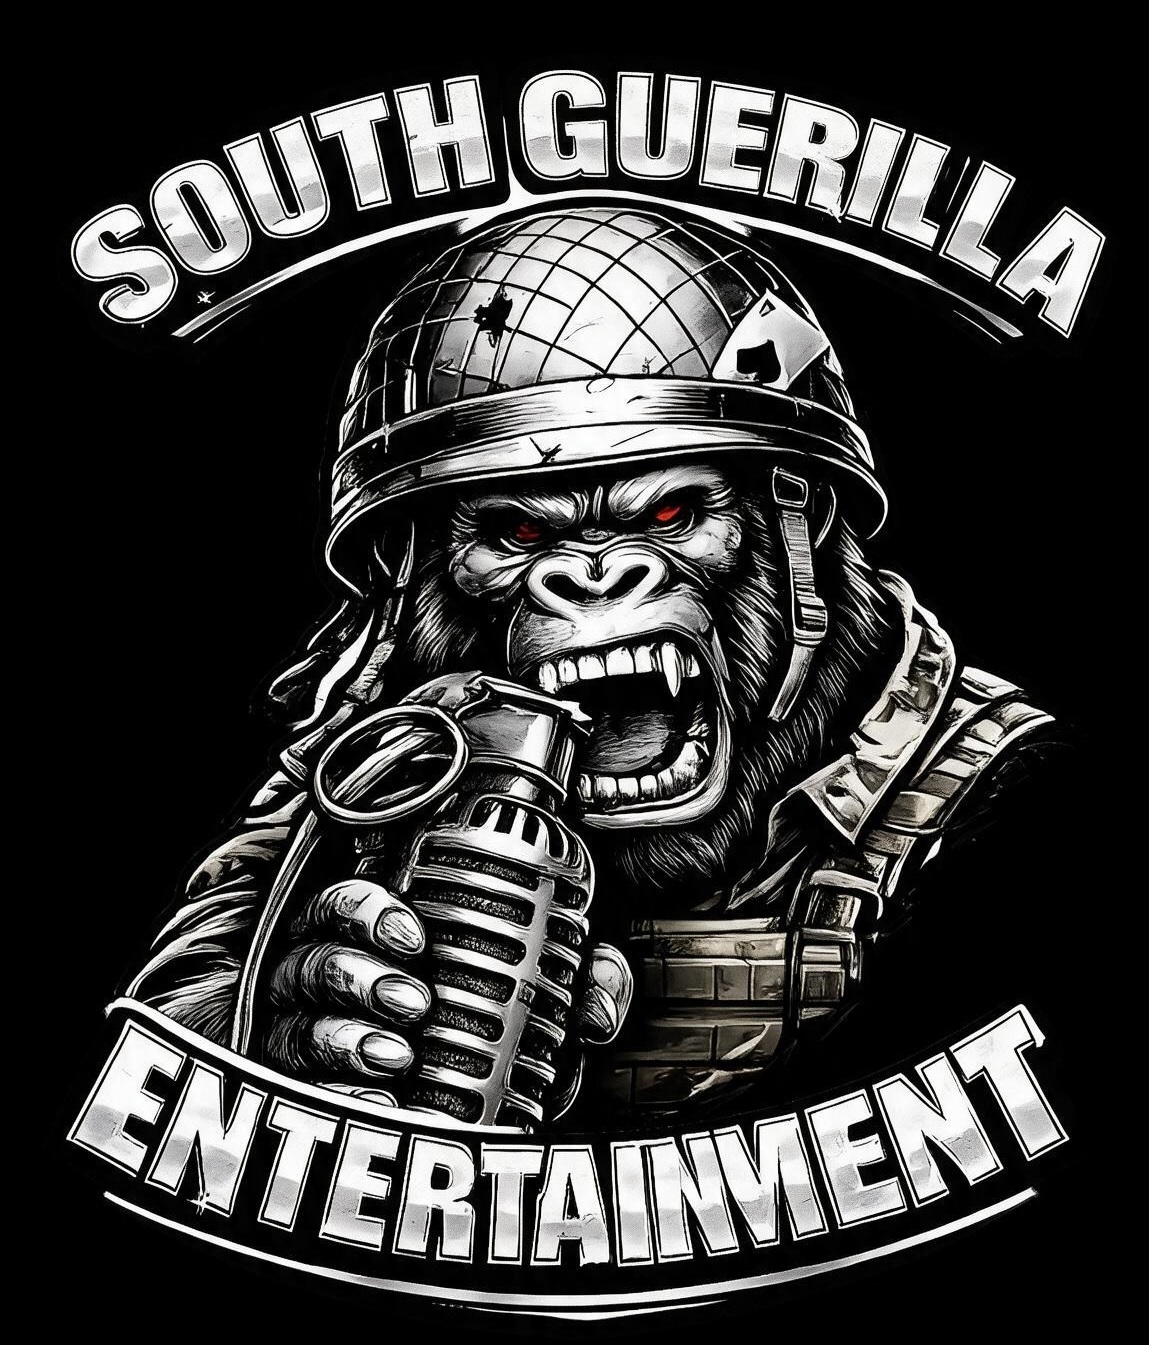
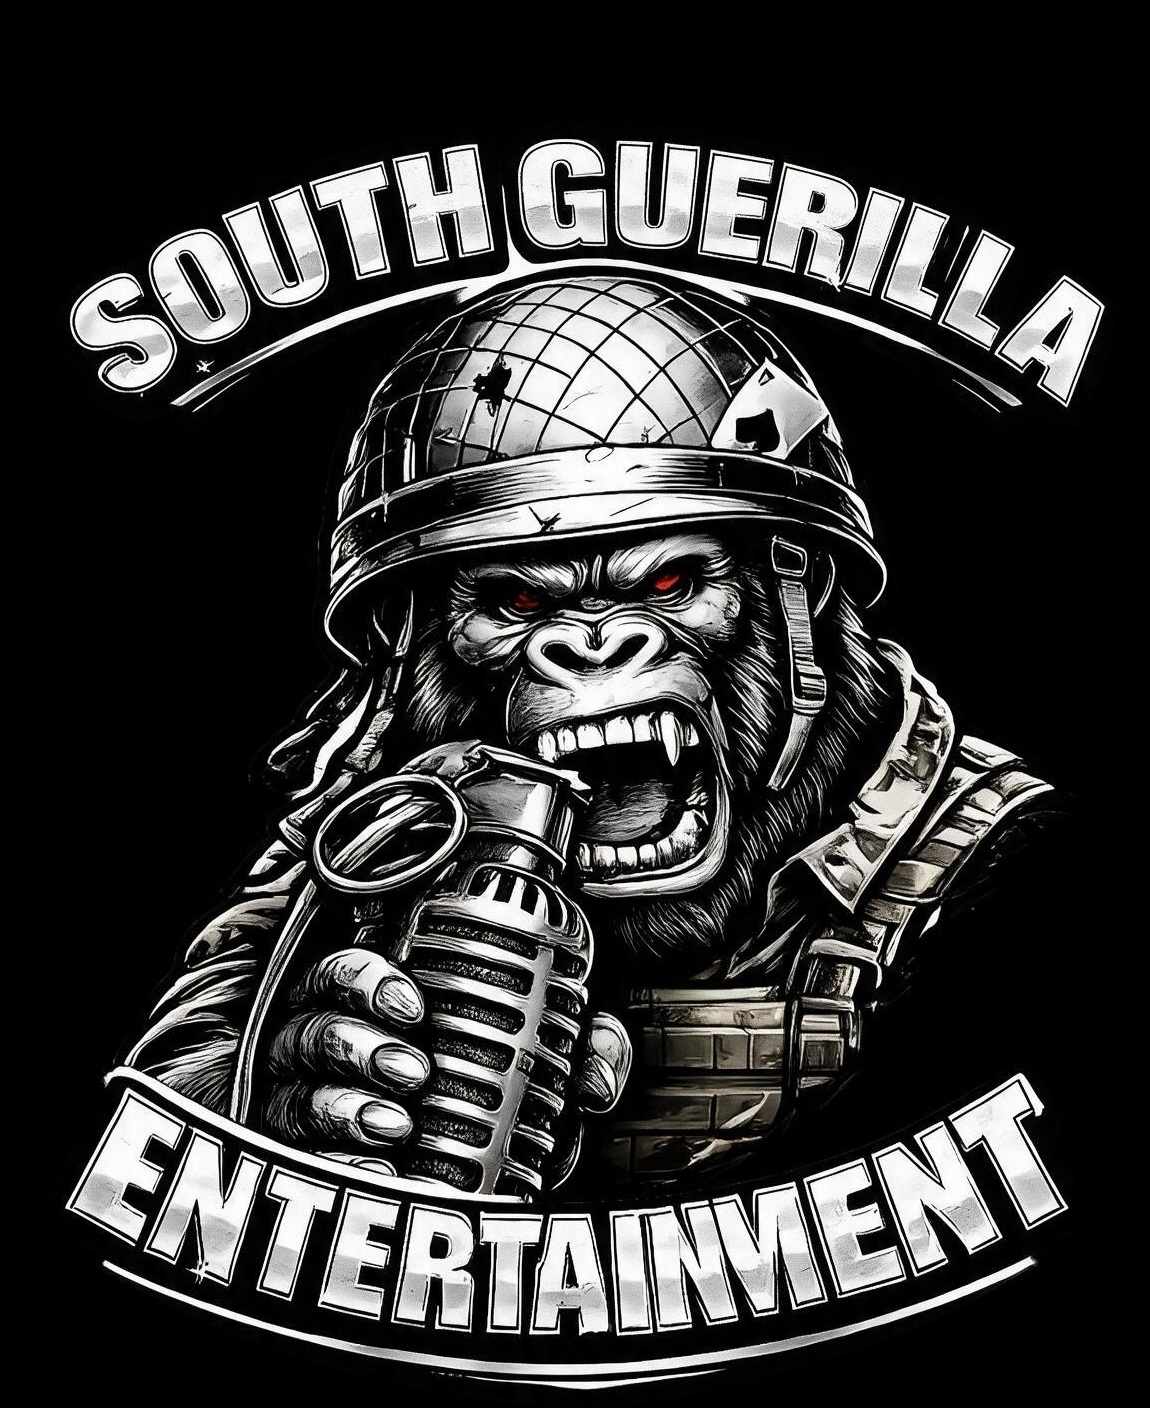
mobile sizing

diff --git a/index.html b/index.html
@@ -808,8 +808,11 @@
       }
 
       .hero-art {
-        background-size: min(100%, 420px) auto;
+        background-image: url("South Guerilla Entertainment mobile.jpg");
         /*background-attachment: scroll;*/
+        background-size: contain;
+        background-position: center -50px;
+        background-repeat: no-repeat;
       }
 
       .hero h1 {
